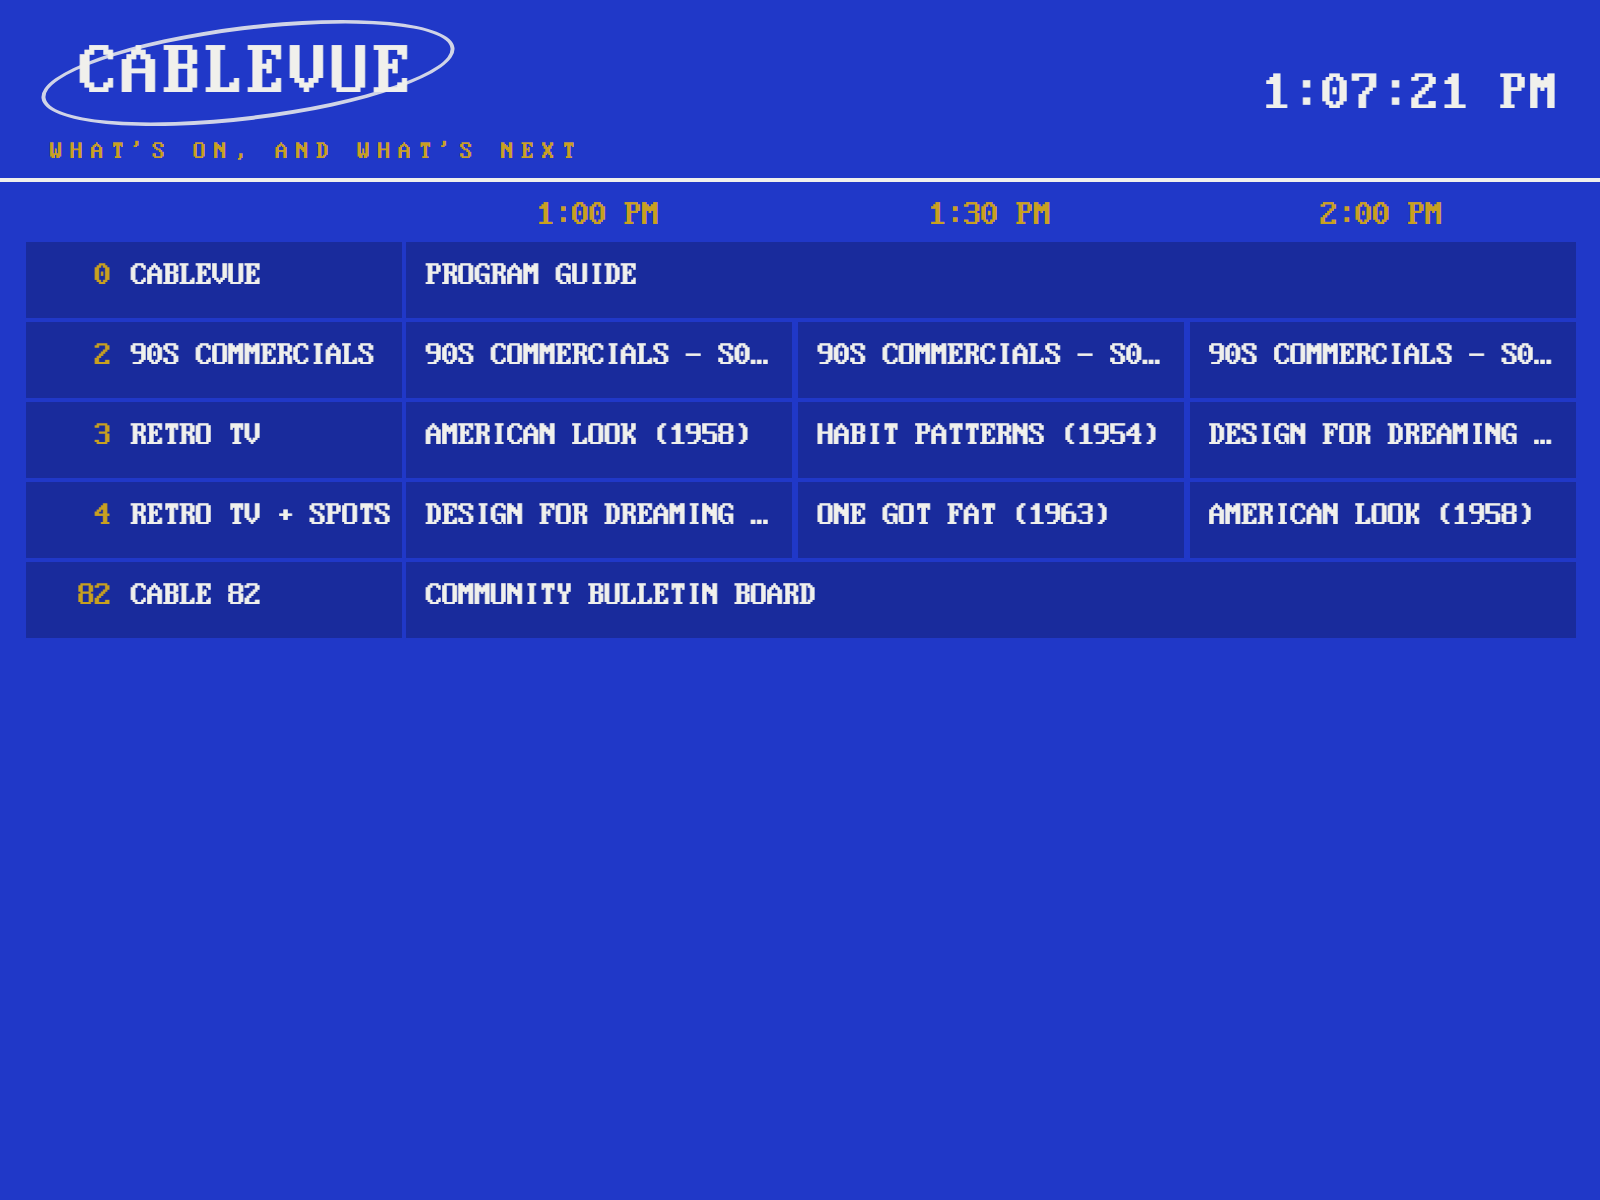
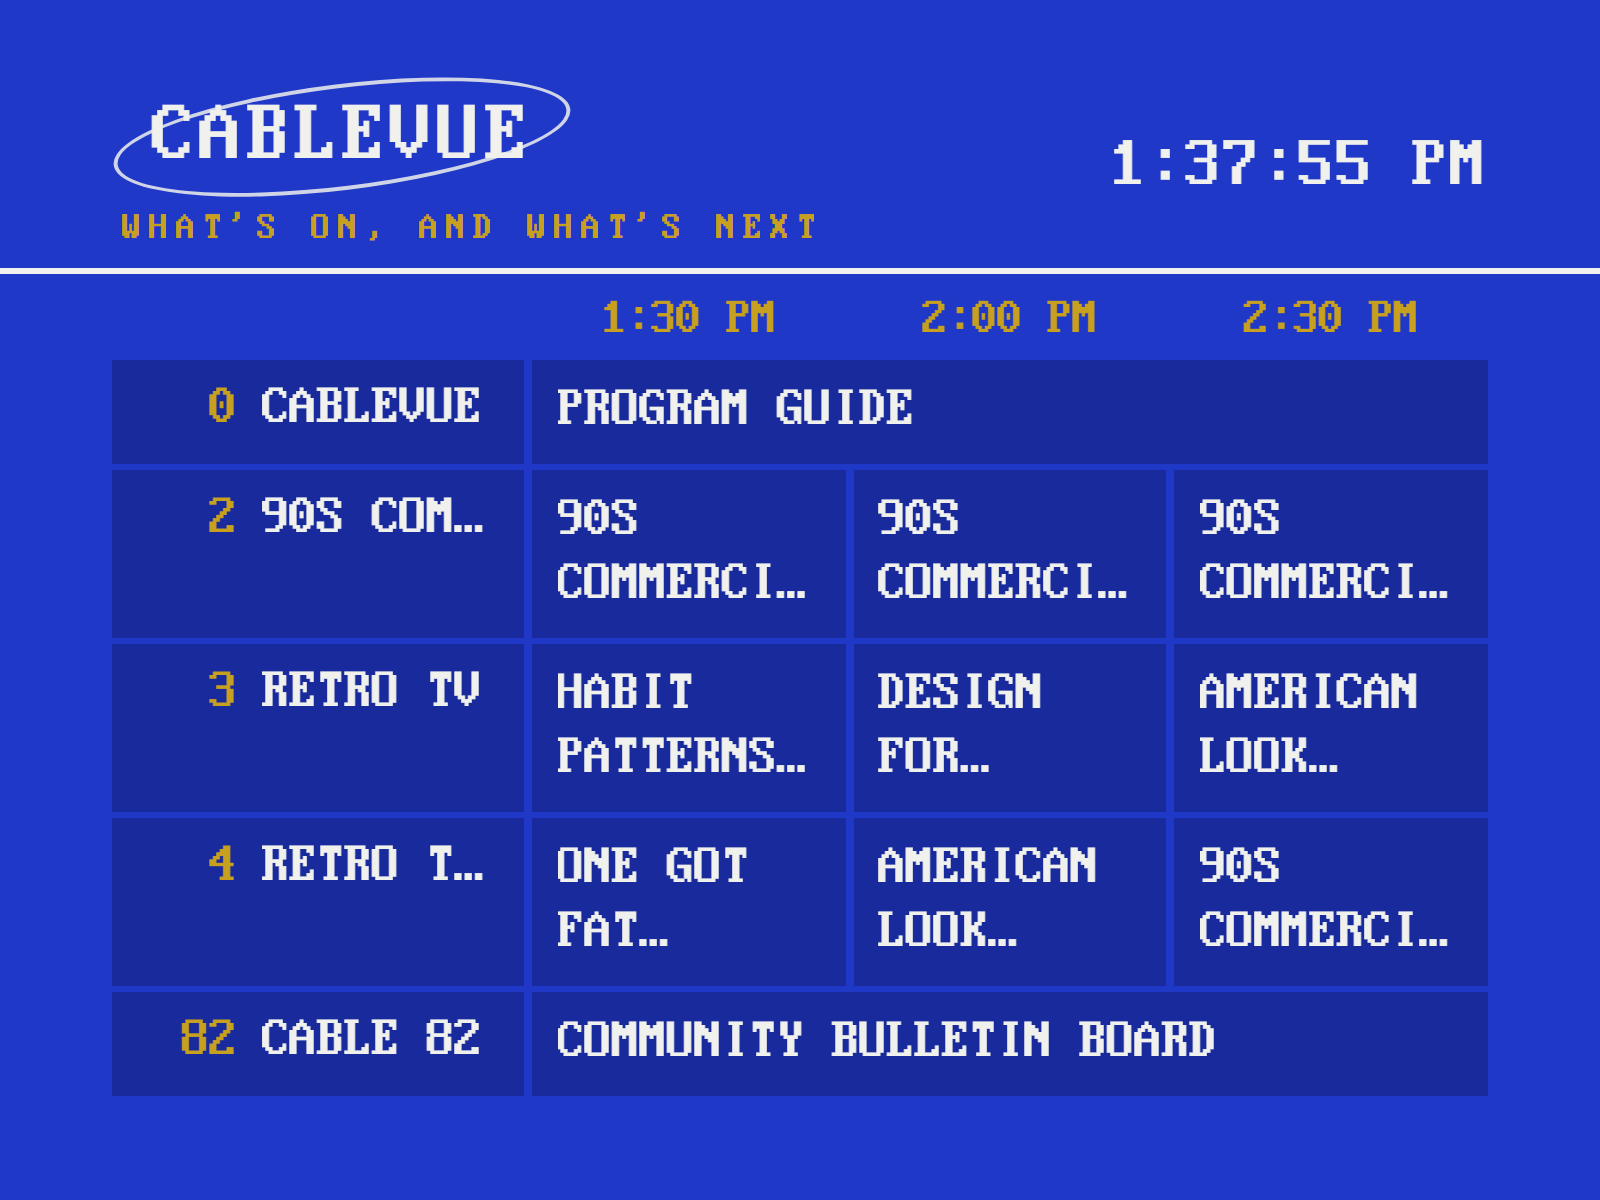
size the guide for a tube: overscan margins, text scale, readable rows

diff --git a/style.css b/style.css
@@ -318,8 +318,9 @@ html, body { height: 100%; background: var(--letterbox); }
   display: flex;
   align-items: center;
   justify-content: space-between;
-  padding: calc(var(--u) * 10) calc(var(--u) * 16) calc(var(--u) * 6);
-  border-bottom: calc(var(--u) * 2) solid var(--c-white);
+  gap: calc(var(--u) * 16);
+  padding: var(--ovy) var(--ovx) calc(var(--u) * 8);
+  border-bottom: calc(var(--u) * 3) solid var(--c-white);
 }
 
 /* The wordmark: the name with a ring cut around it, the way every guide
@@ -335,9 +336,10 @@ html, body { height: 100%; background: var(--letterbox); }
 #guide-logo .cv-word {
   position: relative;
   z-index: 1;
-  font-size: calc(var(--u) * 30);
+  font-size: calc(var(--u) * 34 * var(--ts));
   letter-spacing: 0.06em;
   display: block;
+  white-space: nowrap;
 }
 #guide-logo .cv-ring {
   position: absolute;
@@ -351,50 +353,66 @@ html, body { height: 100%; background: var(--letterbox); }
   display: block;
   margin-top: calc(var(--u) * 8);
   padding-left: calc(var(--u) * 4);
-  font-size: calc(var(--u) * 10);
-  letter-spacing: 0.32em;
+  font-size: calc(var(--u) * 15 * var(--ts));
+  letter-spacing: 0.22em;
   color: var(--c-yellow);
+  white-space: nowrap;
 }
 #guide-logo .cv-sub[hidden] { display: none; }
-#guide-clock { font-size: calc(var(--u) * 22); letter-spacing: 0.04em; }
+#guide-clock { font-size: calc(var(--u) * 28 * var(--ts)); letter-spacing: 0.04em; white-space: nowrap; }
 
 /* The column heads and the rows share one grid so the columns line up. */
 #guide-cols,
 .guide-row {
   display: grid;
-  grid-template-columns: calc(var(--u) * 150) repeat(var(--slots, 3), 1fr);
-  gap: calc(var(--u) * 2);
+  grid-template-columns: calc(var(--u) * 165 * var(--ts)) repeat(var(--slots, 3), 1fr);
+  gap: calc(var(--u) * 3);
 }
 #guide-cols {
-  padding: calc(var(--u) * 6) calc(var(--u) * 10) calc(var(--u) * 4);
-  font-size: calc(var(--u) * 14);
+  padding: calc(var(--u) * 8) var(--ovx) calc(var(--u) * 6);
+  font-size: calc(var(--u) * 20 * var(--ts));
   color: var(--c-yellow);
 }
 #guide-cols .gc-slot { text-align: center; }
 
-#guide-view { flex: 1; position: relative; overflow: hidden; padding: 0 calc(var(--u) * 10) calc(var(--u) * 8); }
+#guide-view { flex: 1; position: relative; overflow: hidden; padding: 0 var(--ovx) var(--ovy); }
 /* The crawling list gets its own layer: on a moving layer the browser drops
    subpixel antialiasing, which otherwise fringes every letter in color. */
 #guide-rows {
   position: absolute;
-  left: calc(var(--u) * 10);
-  right: calc(var(--u) * 10);
+  left: var(--ovx);
+  right: var(--ovx);
   top: 0;
   will-change: transform;
   -webkit-font-smoothing: antialiased;
 }
 
-.guide-row { margin-bottom: calc(var(--u) * 2); font-size: calc(var(--u) * 13); }
+.guide-row { margin-bottom: calc(var(--u) * 3); font-size: calc(var(--u) * 22 * var(--ts)); }
 .guide-row > * {
   background: rgba(0, 0, 0, 0.22);
-  padding: calc(var(--u) * 7) calc(var(--u) * 8);
-  min-height: calc(var(--u) * 30);
+  padding: calc(var(--u) * 8) calc(var(--u) * 10);
+  min-height: calc(var(--u) * 40 * var(--ts));
   overflow: hidden;
   text-overflow: ellipsis;
   white-space: nowrap;
 }
-.guide-row .g-ch { display: flex; gap: calc(var(--u) * 8); align-items: baseline; }
-.guide-row .g-num { color: var(--c-yellow); min-width: calc(var(--u) * 26); text-align: right; }
+/* A long program title wraps inside its cell rather than being cut off at
+   one line. Two lines is what fits a half hour before the row gets taller
+   than the tube can spare. */
+.guide-row .g-cell { display: flex; align-items: flex-start; white-space: normal; }
+.guide-row .g-title {
+  display: -webkit-box;
+  -webkit-box-orient: vertical;
+  -webkit-line-clamp: 2;
+  line-clamp: 2;
+  overflow: hidden;
+  line-height: 1.15;
+}
+.guide-row .g-ch { display: flex; gap: calc(var(--u) * 10); align-items: baseline; min-width: 0; }
+/* The name gives way before the number does: a channel you cannot name is
+   still a channel you can tune. */
+.guide-row .g-name { overflow: hidden; text-overflow: ellipsis; white-space: nowrap; }
+.guide-row .g-num { color: var(--c-yellow); min-width: calc(var(--u) * 40 * var(--ts)); text-align: right; flex: 0 0 auto; }
 .guide-row .g-cell.is-offair,
 .guide-row .g-cell.is-unknown { color: var(--c-white); opacity: 0.62; }
 

diff --git a/app.js b/app.js
@@ -1118,6 +1118,8 @@
       // is taller than the screen.
       let guideTimers = [];
       let guideScroll = null;
+      let guideLineup = [];
+      let guideResize = null;
 
       function guideRowEl(row) {
         const el = document.createElement("div");
@@ -1136,7 +1138,12 @@
           const c = document.createElement("div");
           c.className = "g-cell is-" + cell.kind;
           c.style.gridColumn = "span " + cell.span;
-          c.textContent = cell.title;
+          // The title lives in its own span so it can be clamped to two lines
+          // no matter how tall the row grows around it.
+          const t = document.createElement("span");
+          t.className = "g-title";
+          t.textContent = cell.title;
+          c.appendChild(t);
           el.appendChild(c);
         }
         return el;
@@ -1178,16 +1185,29 @@
         }
         L.guideRows.textContent = "";
         for (const row of grid.rows) L.guideRows.appendChild(guideRowEl(row));
-        // A lineup taller than the screen crawls, and the rows are drawn twice
-        // so the loop has no seam.
-        const rowsHeight = L.guideRows.scrollHeight;
-        const viewHeight = L.guideView.clientHeight;
-        guideScroll = null;
+        guideLineup = grid.rows;
+        guideFit();
+      }
+
+      // Does the lineup fit, and if not how fast does it crawl? Kept separate
+      // from drawing because the answer changes after the first paint: the
+      // bitmap face lands late and every row and the masthead grow with it.
+      // Idempotent on purpose, so it can run as often as it likes.
+      function guideFit() {
+        if (!guideLineup.length) return;
+        const n = guideLineup.length;
+        while (L.guideRows.childElementCount > n) L.guideRows.lastElementChild.remove();
+        const lineup = L.guideRows.scrollHeight;
+        const view = L.guideView.clientHeight;
         L.guideRows.style.transform = "translateY(0)";
-        if (rowsHeight > viewHeight) {
-          for (const row of grid.rows) L.guideRows.appendChild(guideRowEl(row));
-          guideScroll = { y: 0, loop: rowsHeight, speed: viewHeight / opts.scrollSeconds };
+        if (lineup <= view || !view) {
+          guideScroll = null;
+          return;
         }
+        // Drawn twice so the loop has no seam: the second copy is what scrolls
+        // up into the gap the first one leaves.
+        for (const row of guideLineup) L.guideRows.appendChild(guideRowEl(row));
+        guideScroll = { y: 0, loop: lineup, speed: view / guideOpts().scrollSeconds };
       }
 
       function guideStart(channel) {
@@ -1199,6 +1219,12 @@
         fetchChannels()
           .then(() => { if (!L.guide.hidden) guideDraw(channel); })
           .catch(() => { /* the grid still lists the dial, just without titles */ });
+        // The bitmap face lands after the first paint and everything grows with
+        // it, so watch the boxes instead of guessing when layout has settled.
+        if (typeof ResizeObserver === "function") {
+          guideResize = new ResizeObserver(() => guideFit());
+          guideResize.observe(L.guideView);
+        }
         const withSeconds = guideOpts().seconds;
         const tick = () => {
           L.guideClock.textContent = formatClock(new Date(), cfg.timeFormat, { seconds: withSeconds });
@@ -1227,6 +1253,9 @@
       }
 
       function guideStop() {
+        if (guideResize) guideResize.disconnect();
+        guideResize = null;
+        guideLineup = [];
         for (const t of guideTimers) { clearInterval(t); clearTimeout(t); }
         if (guideTimers.raf) cancelAnimationFrame(guideTimers.raf);
         guideTimers = [];

diff --git a/README.md b/README.md
@@ -89,7 +89,7 @@ Four kinds of channel:
 
 - **Bulletin** - the bundled [Community Bulletin Board](#channel-82-the-community-bulletin-board). Its lineup is the page rotation.
 - **Video** - a folder of video files under [`channels/`](channels/README.md), played in order on a *broadcast clock*: the channel's position is computed from the wall clock, so tuning away and back lands you mid-program, like real TV. Play in filename order or shuffled fresh each day. No videos of your own yet? `node channels/fetch-demo-channel.js` downloads **RETRO TV** - eight public-domain films from the Internet Archive's Prelinger collection (Duck and Cover, Design for Dreaming, One Got Fat...) - and you have a channel.
-- **Guide** - **CABLEVUE** on channel 0, the preview channel: a grid of what is on every channel now and next. It reads the same dial and the same broadcast clock the tuner runs on, so it cannot disagree with the picture. Program names come from the filenames, a program running long spans its columns, and the lineup crawls when it is taller than the screen. Its name, tagline, grid, and background live in the control room's **Channel Preview** group.
+- **Guide** - **CABLEVUE** on channel 0, the preview channel: a grid of what is on every channel now and next. It reads the same dial and the same broadcast clock the tuner runs on, so it cannot disagree with the picture. Program names come from the filenames, a program running long spans its columns, and the lineup crawls when it is taller than the screen. Its name, tagline, grid, and background live in the control room's **Channel Preview** group, and it follows the same CRT settings the rest of the set does: overscan margins, text size, and the CRT palette.
 - **External** - any URL in a frame; point one at [ws4kp](https://github.com/netbymatt/ws4kp) for a weather channel.
 
 ![CABLEVUE on channel 0: the wordmark and a running clock over a grid of what is on each channel across three half hours](images/guide.png)
